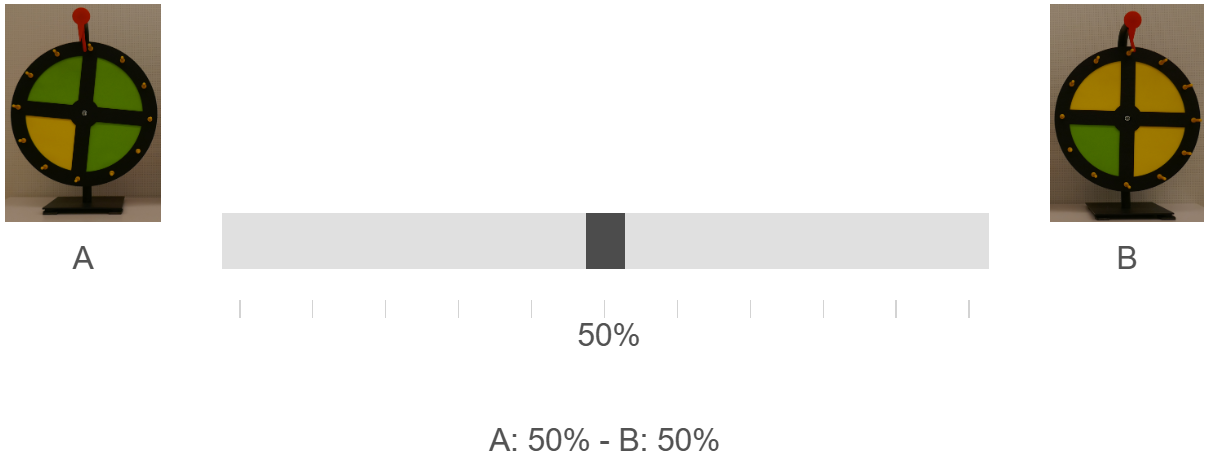
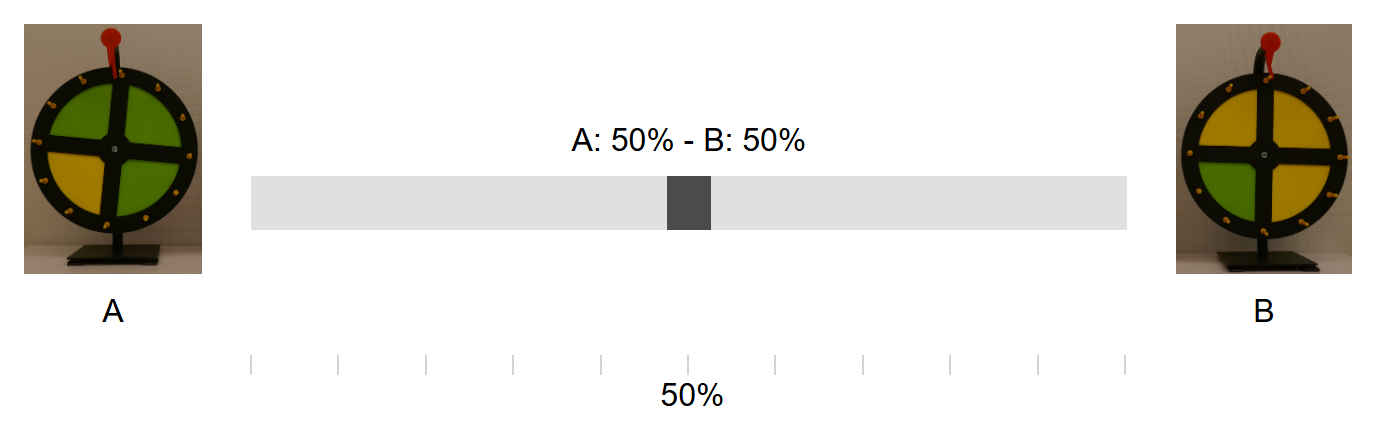
New-style slider picture (readout above the slider); drop the risk-attitude sentence

diff --git a/de/bonusrad.html b/de/bonusrad.html
@@ -24,7 +24,7 @@
 
 <h2>Der Schieberegler</h2>
 <p>Vor der ersten Drehung und nach jeder Drehung geben Sie mit einem Schieberegler an, wie wahrscheinlich Sie es finden, dass das ausgewählte Rad Rad A (grünes Rad) oder Rad B (gelbes Rad) ist. Links neben dem Regler sehen Sie Rad A, rechts Rad B.</p>
-<img src="../img/slider.png" width="1210" height="465" alt="Schieberegler zwischen Rad A (links) und Rad B (rechts) mit der Anzeige „A: 50% - B: 50%“">
+<img src="../img/slider.png" width="688" height="218" alt="Schieberegler zwischen Rad A (links) und Rad B (rechts) mit der Anzeige „A: 50% - B: 50%“">
 <ul>
 <li><b>Mitte:</b> Beide Räder sind gleich wahrscheinlich (je 50%). Sie sind sich völlig unsicher.</li><li><b>Nach links:</b> Sie halten Rad A für wahrscheinlicher. Je weiter links, desto sicherer sind Sie. Ganz links bedeutet „A: 100% - B: 0%“.</li><li><b>Nach rechts:</b> Sie halten Rad B für wahrscheinlicher. Je weiter rechts, desto sicherer sind Sie. Ganz rechts bedeutet „A: 0% - B: 100%“.</li><li><b>Anzeige:</b> Über dem Regler sehen Sie die Wahrscheinlichkeiten für Rad A und B. Sie ergeben immer zusammen 100%.</li>
 </ul>
@@ -37,7 +37,7 @@
 <h3>Bonus für Ihre Wahrscheinlichkeitsschätzungen</h3>
 <p>In jeder Runde wird eine Ihrer neun Schätzungen zufällig ausgewählt (vor der ersten Drehung oder nach Drehung 1 bis 8). Mit dieser Schätzung nehmen Sie an einer Verlosung von <b>€2.00</b> teil. Insgesamt können Sie so bis zu <b>€12.00</b> gewinnen.</p>
 <p>Je näher Ihre Schätzung an dem Rad liegt, das in dieser Runde das ausgewählte Rad ist, desto mehr Gewinnlose erhalten Sie.</p>
-<p><b>Ihre Gewinnchance ist am größten, wenn Sie den Schieberegler immer auf die Wahrscheinlichkeit stellen, die Sie selbst für zutreffend halten.</b> Das gilt unabhängig davon, wie gern Sie Risiken eingehen.</p>
+<p><b>Ihre Gewinnchance ist am größten, wenn Sie den Schieberegler immer auf die Wahrscheinlichkeit stellen, die Sie selbst für zutreffend halten.</b></p>
 <h3>Die genaue Regel</h3>
 <p>Für die ausgewählte Schätzung gibt es 10.000 Lose. Davon sind 10.000 − (Abstand)² Gewinnlose. Der Abstand ist der Unterschied in Prozentpunkten zwischen Ihrer Schätzung für Rad A und 100, wenn Rad A das ausgewählte Rad ist, bzw. 0, wenn Rad B das ausgewählte Rad ist. Dann wird ein Los gezogen. Ist das gezogene Los ein Gewinnlos, erhalten Sie <b>€2.00</b>; andernfalls nichts.</p>
 <p>Beispiel: Sie haben 80% für Rad A angegeben. Ist Rad A das ausgewählte Rad, beträgt der Abstand 20, also 10.000 − 400 = 9.600 Gewinnlose (96%). Ist Rad B das ausgewählte Rad, beträgt der Abstand 80, also 10.000 − 6.400 = 3.600 Gewinnlose (36%).</p>

diff --git a/de/ego.html b/de/ego.html
@@ -24,7 +24,7 @@
 
 <h2>Der Schieberegler</h2>
 <p>Vor der ersten Drehung und nach jeder Drehung geben Sie mit einem Schieberegler an, wie wahrscheinlich Sie es finden, dass das ausgewählte Rad Rad A (grünes Rad) oder Rad B (gelbes Rad) ist. Links neben dem Regler sehen Sie Rad A, rechts Rad B.</p>
-<img src="../img/slider.png" width="1210" height="465" alt="Schieberegler zwischen Rad A (links) und Rad B (rechts) mit der Anzeige „A: 50% - B: 50%“">
+<img src="../img/slider.png" width="688" height="218" alt="Schieberegler zwischen Rad A (links) und Rad B (rechts) mit der Anzeige „A: 50% - B: 50%“">
 <ul>
 <li><b>Mitte:</b> Beide Räder sind gleich wahrscheinlich (je 50%). Sie sind sich völlig unsicher.</li><li><b>Nach links:</b> Sie halten Rad A für wahrscheinlicher. Je weiter links, desto sicherer sind Sie. Ganz links bedeutet „A: 100% - B: 0%“.</li><li><b>Nach rechts:</b> Sie halten Rad B für wahrscheinlicher. Je weiter rechts, desto sicherer sind Sie. Ganz rechts bedeutet „A: 0% - B: 100%“.</li><li><b>Anzeige:</b> Über dem Regler sehen Sie die Wahrscheinlichkeiten für Rad A und B. Sie ergeben immer zusammen 100%.</li>
 </ul>
@@ -38,7 +38,7 @@
 <h3>Bonus für Ihre Wahrscheinlichkeitsschätzungen</h3>
 <p>In jeder Runde wird eine Ihrer neun Schätzungen zufällig ausgewählt (vor der ersten Drehung oder nach Drehung 1 bis 8). Mit dieser Schätzung nehmen Sie an einer Verlosung von <b>€2.00</b> teil. Insgesamt können Sie so bis zu <b>€12.00</b> gewinnen.</p>
 <p>Je näher Ihre Schätzung an dem Rad liegt, das in dieser Runde das ausgewählte Rad ist, desto mehr Gewinnlose erhalten Sie.</p>
-<p><b>Ihre Gewinnchance ist am größten, wenn Sie den Schieberegler immer auf die Wahrscheinlichkeit stellen, die Sie selbst für zutreffend halten.</b> Das gilt unabhängig davon, wie gern Sie Risiken eingehen.</p>
+<p><b>Ihre Gewinnchance ist am größten, wenn Sie den Schieberegler immer auf die Wahrscheinlichkeit stellen, die Sie selbst für zutreffend halten.</b></p>
 <h3>Die genaue Regel</h3>
 <p>Für die ausgewählte Schätzung gibt es 10.000 Lose. Davon sind 10.000 − (Abstand)² Gewinnlose. Der Abstand ist der Unterschied in Prozentpunkten zwischen Ihrer Schätzung für Rad A und 100, wenn Rad A das ausgewählte Rad ist, bzw. 0, wenn Rad B das ausgewählte Rad ist. Dann wird ein Los gezogen. Ist das gezogene Los ein Gewinnlos, erhalten Sie <b>€2.00</b>; andernfalls nichts.</p>
 <p>Beispiel: Sie haben 80% für Rad A angegeben. Ist Rad A das ausgewählte Rad, beträgt der Abstand 20, also 10.000 − 400 = 9.600 Gewinnlose (96%). Ist Rad B das ausgewählte Rad, beträgt der Abstand 80, also 10.000 − 6.400 = 3.600 Gewinnlose (36%).</p>

diff --git a/de/index.html b/de/index.html
@@ -24,7 +24,7 @@
 
 <h2>Der Schieberegler</h2>
 <p>Vor der ersten Drehung und nach jeder Drehung geben Sie mit einem Schieberegler an, wie wahrscheinlich Sie es finden, dass das ausgewählte Rad Rad A (grünes Rad) oder Rad B (gelbes Rad) ist. Links neben dem Regler sehen Sie Rad A, rechts Rad B.</p>
-<img src="../img/slider.png" width="1210" height="465" alt="Schieberegler zwischen Rad A (links) und Rad B (rechts) mit der Anzeige „A: 50% - B: 50%“">
+<img src="../img/slider.png" width="688" height="218" alt="Schieberegler zwischen Rad A (links) und Rad B (rechts) mit der Anzeige „A: 50% - B: 50%“">
 <ul>
 <li><b>Mitte:</b> Beide Räder sind gleich wahrscheinlich (je 50%). Sie sind sich völlig unsicher.</li><li><b>Nach links:</b> Sie halten Rad A für wahrscheinlicher. Je weiter links, desto sicherer sind Sie. Ganz links bedeutet „A: 100% - B: 0%“.</li><li><b>Nach rechts:</b> Sie halten Rad B für wahrscheinlicher. Je weiter rechts, desto sicherer sind Sie. Ganz rechts bedeutet „A: 0% - B: 100%“.</li><li><b>Anzeige:</b> Über dem Regler sehen Sie die Wahrscheinlichkeiten für Rad A und B. Sie ergeben immer zusammen 100%.</li>
 </ul>
@@ -34,7 +34,7 @@
 <h3>Bonus für Ihre Wahrscheinlichkeitsschätzungen</h3>
 <p>In jeder Runde wird eine Ihrer neun Schätzungen zufällig ausgewählt (vor der ersten Drehung oder nach Drehung 1 bis 8). Mit dieser Schätzung nehmen Sie an einer Verlosung von <b>€2.00</b> teil. Insgesamt können Sie so bis zu <b>€12.00</b> gewinnen.</p>
 <p>Je näher Ihre Schätzung an dem Rad liegt, das in dieser Runde das ausgewählte Rad ist, desto mehr Gewinnlose erhalten Sie.</p>
-<p><b>Ihre Gewinnchance ist am größten, wenn Sie den Schieberegler immer auf die Wahrscheinlichkeit stellen, die Sie selbst für zutreffend halten.</b> Das gilt unabhängig davon, wie gern Sie Risiken eingehen.</p>
+<p><b>Ihre Gewinnchance ist am größten, wenn Sie den Schieberegler immer auf die Wahrscheinlichkeit stellen, die Sie selbst für zutreffend halten.</b></p>
 <h3>Die genaue Regel</h3>
 <p>Für die ausgewählte Schätzung gibt es 10.000 Lose. Davon sind 10.000 − (Abstand)² Gewinnlose. Der Abstand ist der Unterschied in Prozentpunkten zwischen Ihrer Schätzung für Rad A und 100, wenn Rad A das ausgewählte Rad ist, bzw. 0, wenn Rad B das ausgewählte Rad ist. Dann wird ein Los gezogen. Ist das gezogene Los ein Gewinnlos, erhalten Sie <b>€2.00</b>; andernfalls nichts.</p>
 <p>Beispiel: Sie haben 80% für Rad A angegeben. Ist Rad A das ausgewählte Rad, beträgt der Abstand 20, also 10.000 − 400 = 9.600 Gewinnlose (96%). Ist Rad B das ausgewählte Rad, beträgt der Abstand 80, also 10.000 − 6.400 = 3.600 Gewinnlose (36%).</p>

diff --git a/en/bonus-wheel.html b/en/bonus-wheel.html
@@ -24,7 +24,7 @@
 
 <h2>The slider</h2>
 <p>Before the first spin and after every spin, you use a slider to tell us how likely you think it is that the selected wheel is Wheel A (green wheel) or Wheel B (yellow wheel). Wheel A is shown to the left of the slider, Wheel B to the right.</p>
-<img src="../img/slider.png" width="1210" height="465" alt="Slider between Wheel A (left) and Wheel B (right) showing “A: 50% - B: 50%”">
+<img src="../img/slider.png" width="688" height="218" alt="Slider between Wheel A (left) and Wheel B (right) showing “A: 50% - B: 50%”">
 <ul>
 <li><b>Middle:</b> both wheels are equally likely (50% each). You are completely unsure.</li><li><b>To the left:</b> you think Wheel A is more likely. The further left, the more certain you are. All the way left means "A: 100% - B: 0%".</li><li><b>To the right:</b> you think Wheel B is more likely. The further right, the more certain you are. All the way right means "A: 0% - B: 100%".</li><li><b>Display:</b> above the slider you see the probabilities for Wheel A and B. They always add up to 100%.</li>
 </ul>
@@ -37,7 +37,7 @@
 <h3>Bonus for your probability estimates</h3>
 <p>In each round, one of your nine estimates is chosen at random (before the first spin or after any one of the 8 spins). With this estimate you take part in a lottery for <b>$2.00</b>. In total you can win up to <b>$12.00</b> this way.</p>
 <p>The closer your estimate is to the wheel that is the selected wheel of that round, the more winning tickets you receive.</p>
-<p><b>Your chance of winning is highest if you always set the slider to the probability that you yourself believe is correct.</b> This holds regardless of how much you like or dislike risk.</p>
+<p><b>Your chance of winning is highest if you always set the slider to the probability that you yourself believe is correct.</b></p>
 <h3>The exact rule</h3>
 <p>There are 10,000 tickets for the chosen estimate, of which 10,000 − (distance)² are winning tickets. The distance is the difference in percentage points between your estimate for Wheel A and 100 if Wheel A is the selected wheel, or 0 if Wheel B is the selected wheel. Then one ticket is drawn. If the ticket drawn is a winning ticket, you receive <b>$2.00</b>; otherwise nothing.</p>
 <p>Example: you reported 80% for Wheel A. If Wheel A is the selected wheel, the distance is 20, so 10,000 − 400 = 9,600 winning tickets (96%). If Wheel B is the selected wheel, the distance is 80, so 10,000 − 6,400 = 3,600 winning tickets (36%).</p>

diff --git a/en/ego.html b/en/ego.html
@@ -24,7 +24,7 @@
 
 <h2>The slider</h2>
 <p>Before the first spin and after every spin, you use a slider to tell us how likely you think it is that the selected wheel is Wheel A (green wheel) or Wheel B (yellow wheel). Wheel A is shown to the left of the slider, Wheel B to the right.</p>
-<img src="../img/slider.png" width="1210" height="465" alt="Slider between Wheel A (left) and Wheel B (right) showing “A: 50% - B: 50%”">
+<img src="../img/slider.png" width="688" height="218" alt="Slider between Wheel A (left) and Wheel B (right) showing “A: 50% - B: 50%”">
 <ul>
 <li><b>Middle:</b> both wheels are equally likely (50% each). You are completely unsure.</li><li><b>To the left:</b> you think Wheel A is more likely. The further left, the more certain you are. All the way left means "A: 100% - B: 0%".</li><li><b>To the right:</b> you think Wheel B is more likely. The further right, the more certain you are. All the way right means "A: 0% - B: 100%".</li><li><b>Display:</b> above the slider you see the probabilities for Wheel A and B. They always add up to 100%.</li>
 </ul>
@@ -38,7 +38,7 @@
 <h3>Bonus for your probability estimates</h3>
 <p>In each round, one of your nine estimates is chosen at random (before the first spin or after any one of the 8 spins). With this estimate you take part in a lottery for <b>$2.00</b>. In total you can win up to <b>$12.00</b> this way.</p>
 <p>The closer your estimate is to the wheel that is the selected wheel of that round, the more winning tickets you receive.</p>
-<p><b>Your chance of winning is highest if you always set the slider to the probability that you yourself believe is correct.</b> This holds regardless of how much you like or dislike risk.</p>
+<p><b>Your chance of winning is highest if you always set the slider to the probability that you yourself believe is correct.</b></p>
 <h3>The exact rule</h3>
 <p>There are 10,000 tickets for the chosen estimate, of which 10,000 − (distance)² are winning tickets. The distance is the difference in percentage points between your estimate for Wheel A and 100 if Wheel A is the selected wheel, or 0 if Wheel B is the selected wheel. Then one ticket is drawn. If the ticket drawn is a winning ticket, you receive <b>$2.00</b>; otherwise nothing.</p>
 <p>Example: you reported 80% for Wheel A. If Wheel A is the selected wheel, the distance is 20, so 10,000 − 400 = 9,600 winning tickets (96%). If Wheel B is the selected wheel, the distance is 80, so 10,000 − 6,400 = 3,600 winning tickets (36%).</p>

diff --git a/en/index.html b/en/index.html
@@ -24,7 +24,7 @@
 
 <h2>The slider</h2>
 <p>Before the first spin and after every spin, you use a slider to tell us how likely you think it is that the selected wheel is Wheel A (green wheel) or Wheel B (yellow wheel). Wheel A is shown to the left of the slider, Wheel B to the right.</p>
-<img src="../img/slider.png" width="1210" height="465" alt="Slider between Wheel A (left) and Wheel B (right) showing “A: 50% - B: 50%”">
+<img src="../img/slider.png" width="688" height="218" alt="Slider between Wheel A (left) and Wheel B (right) showing “A: 50% - B: 50%”">
 <ul>
 <li><b>Middle:</b> both wheels are equally likely (50% each). You are completely unsure.</li><li><b>To the left:</b> you think Wheel A is more likely. The further left, the more certain you are. All the way left means "A: 100% - B: 0%".</li><li><b>To the right:</b> you think Wheel B is more likely. The further right, the more certain you are. All the way right means "A: 0% - B: 100%".</li><li><b>Display:</b> above the slider you see the probabilities for Wheel A and B. They always add up to 100%.</li>
 </ul>
@@ -34,7 +34,7 @@
 <h3>Bonus for your probability estimates</h3>
 <p>In each round, one of your nine estimates is chosen at random (before the first spin or after any one of the 8 spins). With this estimate you take part in a lottery for <b>$2.00</b>. In total you can win up to <b>$12.00</b> this way.</p>
 <p>The closer your estimate is to the wheel that is the selected wheel of that round, the more winning tickets you receive.</p>
-<p><b>Your chance of winning is highest if you always set the slider to the probability that you yourself believe is correct.</b> This holds regardless of how much you like or dislike risk.</p>
+<p><b>Your chance of winning is highest if you always set the slider to the probability that you yourself believe is correct.</b></p>
 <h3>The exact rule</h3>
 <p>There are 10,000 tickets for the chosen estimate, of which 10,000 − (distance)² are winning tickets. The distance is the difference in percentage points between your estimate for Wheel A and 100 if Wheel A is the selected wheel, or 0 if Wheel B is the selected wheel. Then one ticket is drawn. If the ticket drawn is a winning ticket, you receive <b>$2.00</b>; otherwise nothing.</p>
 <p>Example: you reported 80% for Wheel A. If Wheel A is the selected wheel, the distance is 20, so 10,000 − 400 = 9,600 winning tickets (96%). If Wheel B is the selected wheel, the distance is 80, so 10,000 − 6,400 = 3,600 winning tickets (36%).</p>

diff --git a/build.py b/build.py
@@ -73,8 +73,7 @@ DE = {
         'In jeder Runde wird eine Ihrer neun Schätzungen zufällig ausgewählt (vor der ersten Drehung oder nach Drehung 1 bis 8). '
         f'Mit dieser Schätzung nehmen Sie an einer Verlosung von <b>{A["per_round"]}</b> teil. Insgesamt können Sie so bis zu <b>{A["max_belief"]}</b> gewinnen.',
         'Je näher Ihre Schätzung an dem Rad liegt, das in dieser Runde das ausgewählte Rad ist, desto mehr Gewinnlose erhalten Sie.',
-        '<b>Ihre Gewinnchance ist am größten, wenn Sie den Schieberegler immer auf die Wahrscheinlichkeit stellen, die Sie selbst für zutreffend halten.</b> '
-        'Das gilt unabhängig davon, wie gern Sie Risiken eingehen.',
+        '<b>Ihre Gewinnchance ist am größten, wenn Sie den Schieberegler immer auf die Wahrscheinlichkeit stellen, die Sie selbst für zutreffend halten.</b>',
     ],
     'rule_h': 'Die genaue Regel',
     'rule': [
@@ -164,8 +163,7 @@ EN = {
         'In each round, one of your nine estimates is chosen at random (before the first spin or after any one of the 8 spins). '
         f'With this estimate you take part in a lottery for <b>{A["per_round"]}</b>. In total you can win up to <b>{A["max_belief"]}</b> this way.',
         'The closer your estimate is to the wheel that is the selected wheel of that round, the more winning tickets you receive.',
-        '<b>Your chance of winning is highest if you always set the slider to the probability that you yourself believe is correct.</b> '
-        'This holds regardless of how much you like or dislike risk.',
+        '<b>Your chance of winning is highest if you always set the slider to the probability that you yourself believe is correct.</b>',
     ],
     'rule_h': 'The exact rule',
     'rule': [
@@ -251,7 +249,7 @@ def page(T, kind):
 
 <h2>{T['slider_h']}</h2>
 {paras(T['slider'])}
-<img src="../img/slider.png" width="1210" height="465" alt="{T['img_slider']}">
+<img src="../img/slider.png" width="688" height="218" alt="{T['img_slider']}">
 <ul>
 {''.join(f'<li>{t}</li>' for t in T['slider_list'])}
 </ul>
